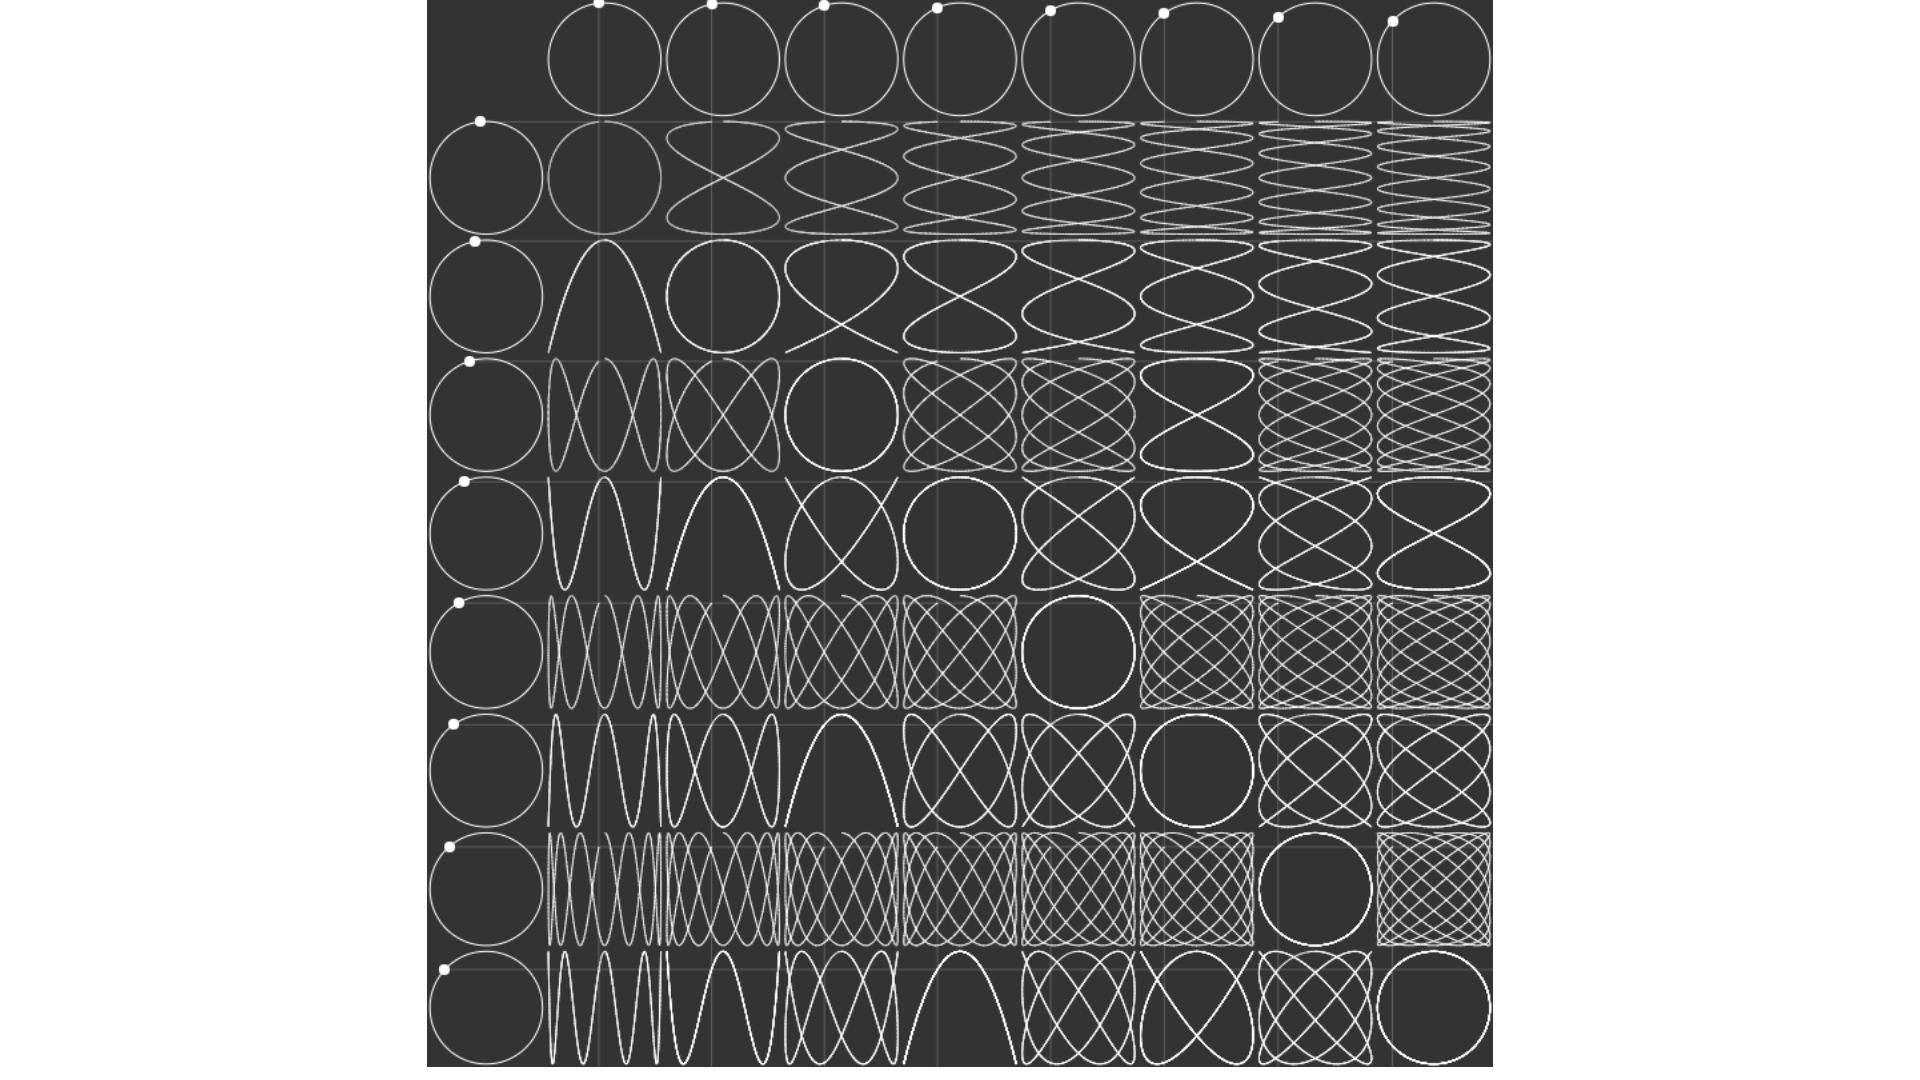
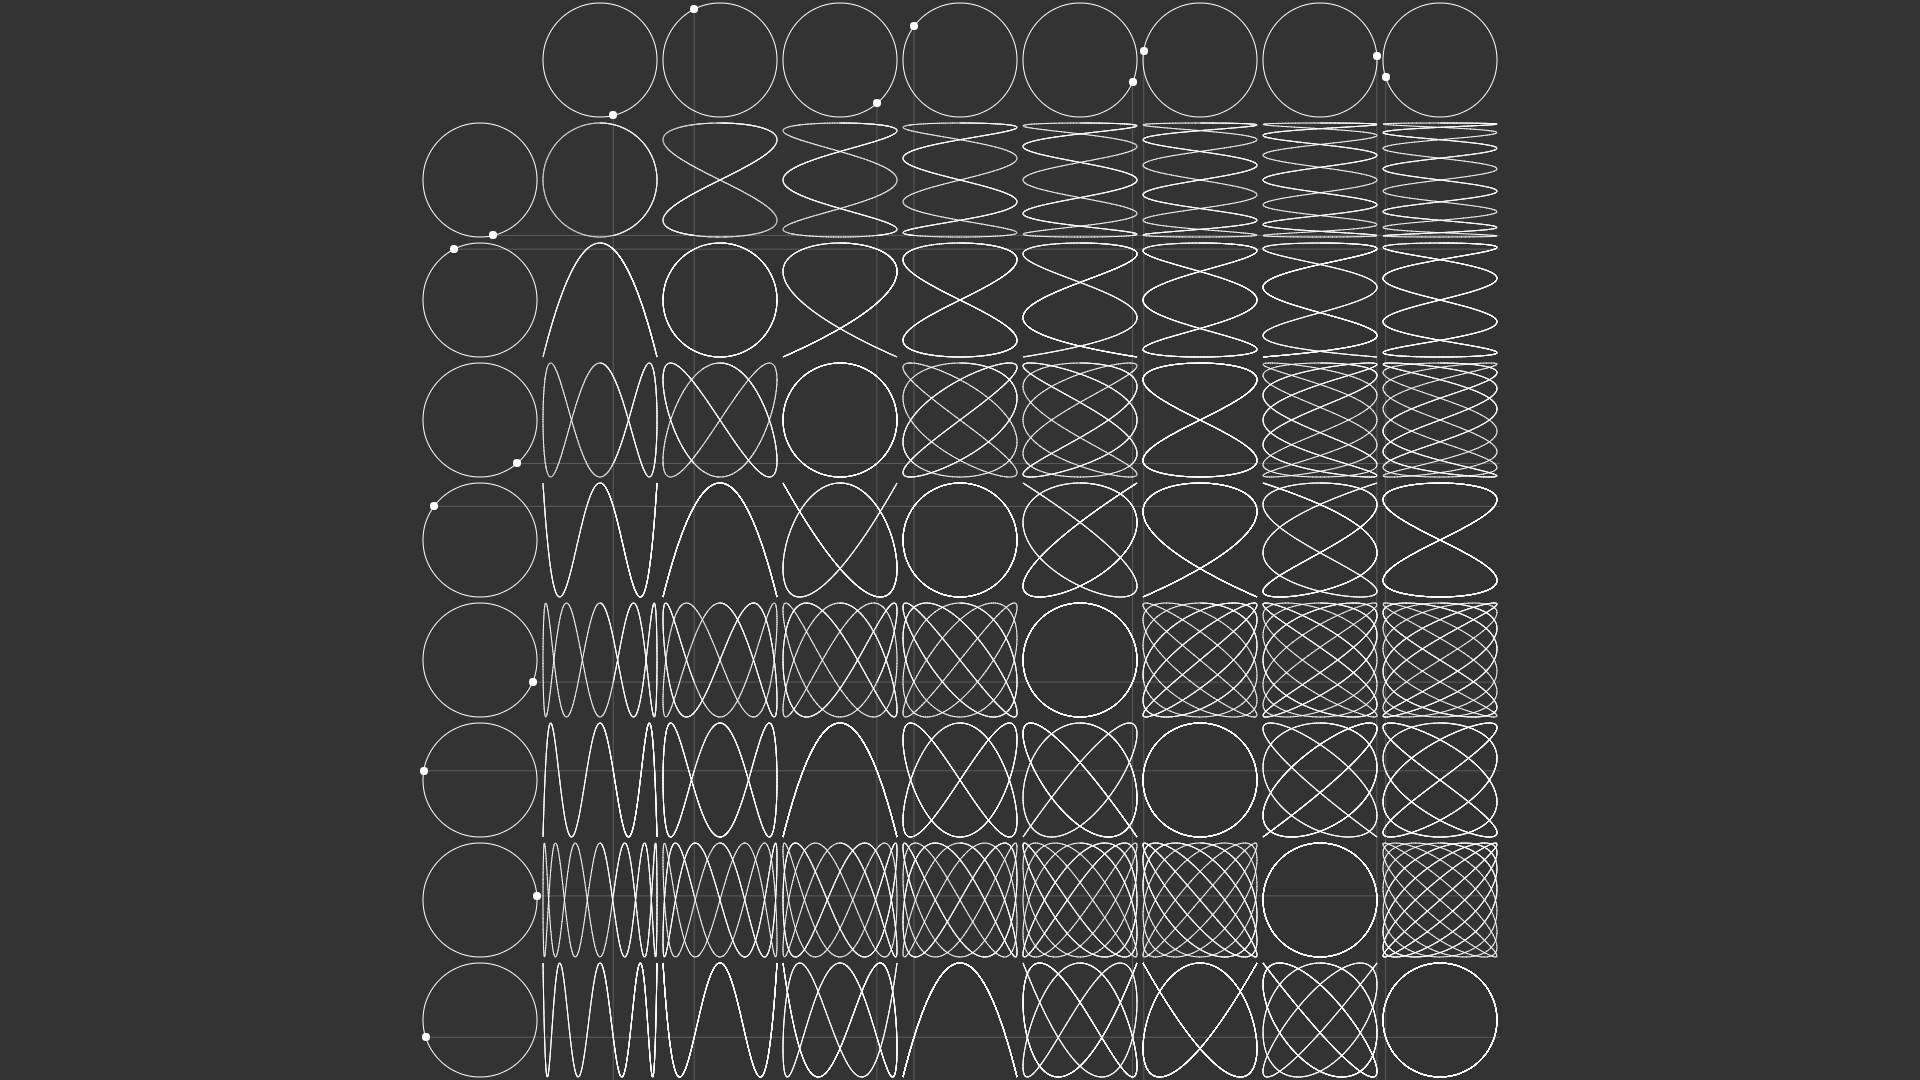
Fixed class attribute. Improves lissajous

diff --git a/src/index.js b/src/index.js
@@ -1,27 +1,43 @@
-import React from 'react';
-import ReactDOM from 'react-dom';
-import './index.css';
-import App from './App';
-import * as serviceWorker from './serviceWorker';
+import React from "react";
+import ReactDOM from "react-dom";
+import "./index.css";
+import App from "./App";
+import * as serviceWorker from "./serviceWorker";
 import { Route, BrowserRouter as Router, Switch } from "react-router-dom";
 import Notfound from "./NotFound";
-import ModuloTimesTable from './sketches/moduloTimesTableCircle/ModuloTimesTable';
-import SnowflakeGenerator from './sketches/snowfalkeGenerator/SnowflakeGenerator';
-import FlockingSimulation from './sketches/flockingSimulation/FlockingSimulation';
-import LissajousCurveTable from './sketches/lissajousCurveTable/LissajousCurveTable';
-import MatrixRain from './sketches/matrixRain/MatrixRain';
-import MaurerRose from './sketches/maurerRose/MaurerRose';
-import ChaosGame from './sketches/chaosGame/ChaosGame';
-import * as routePaths from './constants/RoutePaths';
+import ModuloTimesTable from "./sketches/moduloTimesTableCircle/ModuloTimesTable";
+import SnowflakeGenerator from "./sketches/snowfalkeGenerator/SnowflakeGenerator";
+import FlockingSimulation from "./sketches/flockingSimulation/FlockingSimulation";
+import LissajousCurveTable from "./sketches/lissajousCurveTable/LissajousCurveTable";
+import MatrixRain from "./sketches/matrixRain/MatrixRain";
+import MaurerRose from "./sketches/maurerRose/MaurerRose";
+import ChaosGame from "./sketches/chaosGame/ChaosGame";
+import * as routePaths from "./constants/RoutePaths";
 
 const routing = (
 	<Router>
 		<Switch>
 			<Route exact path={routePaths.home} component={App} />
-			<Route exact path="/moduloTimesTable" component={ModuloTimesTable} />
-			<Route exact path={routePaths.snowflakeGenerator} component={SnowflakeGenerator} />
-			<Route exact path={routePaths.flockingSimulation} component={FlockingSimulation} />
-			<Route exact path={routePaths.lissajousCurveTable} component={LissajousCurveTable} />
+			<Route
+				exact
+				path={routePaths.moduloTimesTable}
+				component={ModuloTimesTable}
+			/>
+			<Route
+				exact
+				path={routePaths.snowflakeGenerator}
+				component={SnowflakeGenerator}
+			/>
+			<Route
+				exact
+				path={routePaths.flockingSimulation}
+				component={FlockingSimulation}
+			/>
+			<Route
+				exact
+				path={routePaths.lissajousCurveTable}
+				component={LissajousCurveTable}
+			/>
 			<Route exact path={routePaths.matrixRain} component={MatrixRain} />
 			<Route exact path={routePaths.maurerRose} component={MaurerRose} />
 			<Route exact path={routePaths.chaosGame} component={ChaosGame} />
@@ -31,10 +47,8 @@ const routing = (
 );
 
 ReactDOM.render(
-  <React.StrictMode>
-    {routing}
-  </React.StrictMode>,
-  document.getElementById('root')
+	<React.StrictMode>{routing}</React.StrictMode>,
+	document.getElementById("root")
 );
 
 // If you want your app to work offline and load faster, you can change

diff --git a/src/sketches/lissajousCurveTable/LissajousCurveTable.jsx b/src/sketches/lissajousCurveTable/LissajousCurveTable.jsx
@@ -2,6 +2,7 @@ import React from "react";
 import p5 from "p5";
 import Cog from "./Cog";
 import { intersect } from "mathjs";
+import "./LissajousCurveTable.scss";
 
 class LissajousCurveTable extends React.Component {
 	constructor(props) {
@@ -16,14 +17,16 @@ class LissajousCurveTable extends React.Component {
 		let patterns;
 
 		p.setup = () => {
-			const cnvSize = 800;
-			const cnv = p.createCanvas(cnvSize, cnvSize);
+			const minDim = Math.min(p.windowWidth, p.windowHeight);
+			const cnv = p.createCanvas(minDim, minDim);
 			cnv.style("display", "block");
 			cnv.style("margin", "auto");
 
+			p.frameRate(30);
+
 			numCogs = 8;
 			gridSize = numCogs + 1;
-			diameter = cnvSize / gridSize;
+			diameter = minDim / gridSize;
 			cogsTop = [];
 			cogsSide = [];
 			patterns = [[]];
@@ -102,6 +105,10 @@ class LissajousCurveTable extends React.Component {
 				}
 			}
 		};
+
+		p.windowResized = () => {
+			p.setup();
+		};
 	};
 
 	componentDidMount() {
@@ -109,7 +116,7 @@ class LissajousCurveTable extends React.Component {
 	}
 
 	render() {
-		return <div ref={this.myRef}></div>;
+		return <div className='lissajous-curve-table' ref={this.myRef}></div>;
 	}
 }
 export default LissajousCurveTable;

diff --git a/src/sketches/flockingSimulation/FlockingSimulation.jsx b/src/sketches/flockingSimulation/FlockingSimulation.jsx
@@ -87,16 +87,16 @@ class FlockingSimulation extends React.Component {
 			<div ref={this.myRef}>
 				<div id='canvas'></div>
 				<div id='controls'>
-					<div id='sepDiv' class='slider'>
+					<div id='sepDiv' className='slider'>
 						<p>Separation</p>
 					</div>
-					<div id='alignDiv' class='slider'>
+					<div id='alignDiv' className='slider'>
 						<p>Alignment</p>
 					</div>
-					<div id='cohDiv' class='slider'>
+					<div id='cohDiv' className='slider'>
 						<p>Cohesion</p>
 					</div>
-					<div id='neighbourhoodDiv' class='slider'>
+					<div id='neighbourhoodDiv' className='slider'>
 						<p>Neighbourhood</p>
 					</div>
 				</div>

diff --git a/src/components/sketchTile/SketchTile.jsx b/src/components/sketchTile/SketchTile.jsx
@@ -11,14 +11,14 @@ function SketchTile(props) {
 	}
 
 	return (
-		<div class='sketch-tile'>
+		<div className='sketch-tile'>
 			<img
 				src={props.image}
 				alt='Avatar'
-				class='image'
+				className='image'
 				onClick={handleClick}
 			></img>
-			<div class='text'>
+			<div className='text'>
 				<h2>{props.title}</h2>
 				<p>{props.desc}</p>
 			</div>

diff --git a/src/components/sketchList/SketchList.jsx b/src/components/sketchList/SketchList.jsx
@@ -12,7 +12,7 @@ import SketchTile from "../sketchTile/SketchTile";
 
 function SketchList(props) {
 	return (
-		<div class='sketch-list'>
+		<div className='sketch-list'>
 			<SketchTile
 				title='Flocking Simulation'
 				desc='A simulated flock of birds using Boids program.'

diff --git a/src/sketches/lissajousCurveTable/LissajousCurveTable.scss b/src/sketches/lissajousCurveTable/LissajousCurveTable.scss
@@ -1,0 +1,3 @@
+.lissajous-curve-table {
+	background-color: rgb(51, 51, 51);
+}
